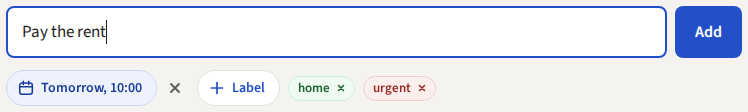
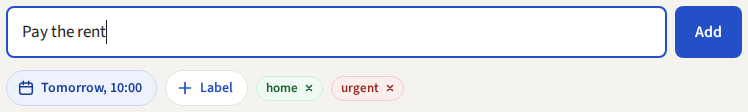
feat: the × of the new item's due date is inside its button
The × that removes the due date under the add field is now part of the
date button and shows on hover or focus, like the × of a label; a touch
screen always shows it (canvas page "10 · Due date", "× inside the due
date button", option A). Guide text and screenshot updated.

diff --git a/internal/web/static/app.css b/internal/web/static/app.css
@@ -397,9 +397,11 @@ button.due:focus-visible { outline: 2px solid var(--accent); outline-offset: 2px
 }
 /* The due date and labels of a new item, under the add field (canvas page
    "10 · Due date", "calendar and + under the add field", option B): outlined
-   buttons like "Hide done", with 18 px icons. A picked date fills its button;
-   picked labels are chips whose × always shows. The pop-ups are the ones of
-   a row. */
+   buttons like "Hide done", with 18 px icons. Picked labels are chips whose
+   × always shows. A picked date fills its button, and the button holds an ×
+   that shows on hover or focus, like the × of a label ("× inside the due
+   date button", option A); a touch screen always shows it. The pop-ups are
+   the ones of a row. */
 .add-extras { display: flex; align-items: center; flex-wrap: wrap; gap: 8px; margin-top: -8px; }
 .pill {
   display: inline-flex; align-items: center; gap: 6px; min-height: 36px; padding: 0 14px 0 10px;
@@ -408,19 +410,28 @@ button.due:focus-visible { outline: 2px solid var(--accent); outline-offset: 2px
 }
 .pill:hover, .pill[aria-expanded="true"] { border-color: var(--accent); }
 .pill[aria-expanded="true"] { background: #EEF2FC; }
-.pill.set { background: #EEF2FC; border-color: #C9D6F5; color: var(--accent-dark); }
-.pill:focus-visible, .pill-x:focus-visible { outline: 2px solid var(--accent); outline-offset: 2px; }
-.pill-x {
-  width: 28px; height: 28px; margin-left: -4px; padding: 0; border: none; border-radius: 50%;
-  display: inline-flex; align-items: center; justify-content: center;
-  color: var(--muted); background: none; cursor: pointer;
+.pill:focus-visible, .pill-x:focus-visible { outline: 2px solid var(--accent); outline-offset: 1px; }
+.due-set {
+  align-items: center; min-height: 36px; box-sizing: border-box; border-radius: 999px;
+  background: #EEF2FC; border: 1px solid #C9D6F5; color: var(--accent-dark);
 }
-.pill-x:hover { color: var(--ink); background: #E9E7E0; }
+.due-set:hover, .due-set:focus-within { border-color: var(--accent); }
+.due-set .draft-due, .due-set .draft-due[aria-expanded="true"] {
+  min-height: 34px; color: inherit; background: none; border: none;
+}
+.pill-x {
+  flex: none; width: 0; height: 22px; margin: 0; padding: 0; overflow: hidden; opacity: 0;
+  display: inline-flex; align-items: center; justify-content: center;
+  border: none; border-radius: 50%; color: inherit; background: none; cursor: pointer;
+}
+.due-set:hover .pill-x, .due-set:focus-within .pill-x { width: 22px; margin: 0 7px 0 -8px; opacity: 1; }
+.pill-x:hover { background: #C9D6F5; }
 .add-extras .chip { font-size: 13px; padding: 5px 9px; }
 .add-extras .chip-x { width: 16px; margin: -2px -4px -2px 3px; opacity: 1; }
 @media (hover: none) {
-  .pill { min-height: 44px; }
-  .pill-x { width: 44px; height: 44px; margin-left: -10px; }
+  .pill, .due-set { min-height: 44px; }
+  .due-set .draft-due { min-height: 42px; }
+  .pill-x, .due-set .pill-x { width: 30px; height: 30px; margin: 0 6px 0 -8px; opacity: 1; }
   .add-extras .chip-x { width: 22px; height: 22px; margin: -6px -7px -6px 1px; }
 }
 

diff --git a/internal/web/templates/form.html b/internal/web/templates/form.html
@@ -15,10 +15,9 @@ which are forms too, are not inside it. */}}
 <input type="hidden" form="add-form" name="due_date" value="{{.DueDate}}">
 <input type="hidden" form="add-form" name="due_time" value="{{.DueTime}}">
 <input type="hidden" form="add-form" name="labels" value="{{.LabelIDs}}">
-<span class="due-add-wrap"><button type="button" id="due-add-0" class="pill draft-due{{if .DueText}} set{{end}}"{{if .DueText}} aria-label="Due date: {{.DueText}}" title="Change the due date"{{else}} title="Set the due date"{{end}} aria-haspopup="dialog" aria-expanded="false" data-picker="{{.DueURL}}">{{template "calendar-icon-18"}}{{if .DueText}}{{.DueText}}{{else}}Due date{{end}}</button></span>
-{{if .DueText}}<button type="button" class="pill-x" aria-label="Remove the due date" title="Remove the due date"
-  hx-post="/new/due" hx-vals='{"clear":"1"}' hx-include="#add-extras" hx-target="#add-extras" hx-swap="outerHTML">{{template "x-icon"}}</button>
-{{end}}<span class="label-add-wrap"><button type="button" id="label-add-0" class="pill draft-label" title="Add a label" aria-haspopup="dialog" aria-expanded="false" data-picker="{{.LabelsURL}}">{{template "plus-icon-18"}}Label</button></span>
+<span class="due-add-wrap{{if .DueText}} due-set{{end}}"><button type="button" id="due-add-0" class="pill draft-due"{{if .DueText}} aria-label="Due date: {{.DueText}}" title="Change the due date"{{else}} title="Set the due date"{{end}} aria-haspopup="dialog" aria-expanded="false" data-picker="{{.DueURL}}">{{template "calendar-icon-18"}}{{if .DueText}}{{.DueText}}{{else}}Due date{{end}}</button>{{if .DueText}}<button type="button" class="pill-x" aria-label="Remove the due date" title="Remove the due date"
+  hx-post="/new/due" hx-vals='{"clear":"1"}' hx-include="#add-extras" hx-target="#add-extras" hx-swap="outerHTML">{{template "x-small-icon"}}</button>{{end}}</span>
+<span class="label-add-wrap"><button type="button" id="label-add-0" class="pill draft-label" title="Add a label" aria-haspopup="dialog" aria-expanded="false" data-picker="{{.LabelsURL}}">{{template "plus-icon-18"}}Label</button></span>
 {{range .Labels}}<span class="chip" data-color="{{.Color}}" data-label="{{.ID}}"><span class="chip-name">{{.Name}}</span><button type="button" class="chip-x" aria-label="Remove label “{{.Name}}” from the new item" title="Remove label"
   hx-post="/new/labels" hx-vals='{"remove":"{{.ID}}"}' hx-include="#add-extras" hx-target="#add-extras" hx-swap="outerHTML">{{template "x-small-icon"}}</button></span>
 {{end}}</div>{{end}}

diff --git a/internal/web/draft_test.go b/internal/web/draft_test.go
@@ -21,7 +21,8 @@ func TestDraftDueDate(t *testing.T) {
 		t.Fatalf("set: %d", rec.Code)
 	}
 	assertContains(t, rec.Body.String(), `<div id="add-extras"`, `name="due_date" value="2099-03-04"`, `name="due_time" value="09:30"`,
-		`class="pill draft-due set" aria-label="Due date: 4 Mar 2099, 09:30"`, `class="pill-x"`)
+		`<span class="due-add-wrap due-set"><button type="button" id="due-add-0" class="pill draft-due" aria-label="Due date: 4 Mar 2099, 09:30"`,
+		`</button><button type="button" class="pill-x" aria-label="Remove the due date"`)
 
 	// All day: no time.
 	rec = do(t, env.H, "POST", "/new/due", url.Values{"due_date": {"2099-03-04"}}, htmxHeaders)
@@ -37,7 +38,7 @@ func TestDraftDueDate(t *testing.T) {
 	// "clear" (the × and "Remove date") takes the date away.
 	rec = do(t, env.H, "POST", "/new/due", url.Values{"due_date": {"2099-03-04"}, "clear": {"1"}}, htmxHeaders)
 	assertContains(t, rec.Body.String(), ">Due date</button>", `name="due_date" value=""`)
-	assertNotContains(t, rec.Body.String(), `class="pill-x"`)
+	assertNotContains(t, rec.Body.String(), `class="pill-x"`, "due-set")
 }
 
 // The label list of the add form picks labels without an item.

diff --git a/docs/user-guide.md b/docs/user-guide.md
@@ -52,7 +52,8 @@ and for how long. The login, sign-up and Account pages link to it.
 
 1. Type the task in the field "What needs to be done?".
 2. If you want a due date, click **Due date** under the field. Pick the day and, if you want, the
-   time, then click **Save**. The button shows the date. The × next to it removes the date.
+   time, then click **Save**. The button shows the date. To remove the date, point at the
+   button and click the × that shows in it.
 3. If you want labels, click **Label** under the field. Click a label name to select it, or type
    a new name to create a label. The selected labels show next to the button, each with an ×.
 4. Press Enter or click **Add**. The item goes to the end of the list. If its due date has
@@ -206,7 +207,8 @@ To see all items again, click the × next to "Label: name".
 The app works in the browser of a phone. On a touch screen:
 
 - The calendar icon, the + and the × on a label always show, and they are larger.
-- The **Due date** and **Label** buttons under the add field are taller.
+- The **Due date** and **Label** buttons under the add field are taller, and the × in the due
+  date button always shows.
 - The × to delete a label in the label list always shows.
 
 ![The list on a phone](guide-images/phone.png "the list in the browser of a phone, 375 pixels wide. The × on each label always shows.")
